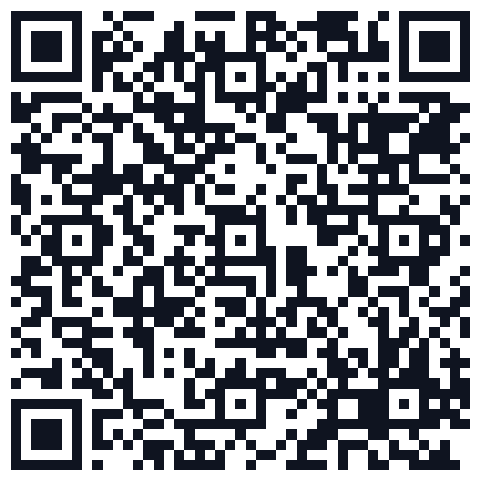
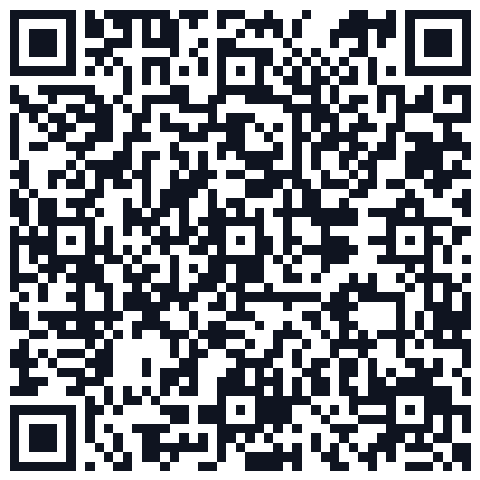
Corrige QR Code que abria o WhatsApp sem a mensagem pronta
O link wa.me e reconhecido como app link direto em varios celulares,
e nesse caminho o parametro de texto era descartado antes de chegar
no WhatsApp. Troca para api.whatsapp.com/send, que preserva a
mensagem de forma confiavel.

diff --git a/src/components/portfolio/ChaptersC.tsx b/src/components/portfolio/ChaptersC.tsx
@@ -352,12 +352,15 @@ const contactIcons = {
   Telefone: Phone,
 } as const;
 
-/** Mensagem pré-preenchida para quem inicia a conversa pelo QR Code do fechamento. */
+/**
+ * Mensagem pré-preenchida para quem inicia a conversa pelo QR Code do fechamento.
+ * Usa api.whatsapp.com (não wa.me): em vários aparelhos, o wa.me é aberto como
+ * app link direto pelo sistema e o parâmetro de texto acaba sendo descartado.
+ */
 const qrWhatsappMessage = encodeURIComponent("Olá Huiatã! Vi sua apresentação e quero conversar.");
 
 export function ContactChapter() {
-  const whatsappLink = contactLinks.find((link) => link.label === "WhatsApp");
-  const qrWhatsappUrl = whatsappLink?.url ? `${whatsappLink.url}?text=${qrWhatsappMessage}` : undefined;
+  const qrWhatsappUrl = `https://api.whatsapp.com/send?phone=55${profile.phone.replace(/\D/g, "")}&text=${qrWhatsappMessage}`;
 
   return (
     <SectionShell id="contato" index="16" eyebrow="Contato" className="bg-tech-grid">
@@ -408,26 +411,24 @@ export function ContactChapter() {
             </div>
           </Reveal>
         </div>
-        {qrWhatsappUrl ? (
-          <Reveal delay={400}>
-            <a
-              href={qrWhatsappUrl}
-              target="_blank"
-              rel="noreferrer"
-              className="glow-brand mx-auto flex w-fit flex-col items-center gap-3 rounded-3xl bg-white p-5 transition-transform hover:scale-[1.02] md:p-6"
-              aria-label="Escanear QR Code para iniciar uma conversa no WhatsApp (abre em nova aba)"
-            >
-              <img
-                src={qrWhatsapp}
-                alt="QR Code que leva direto para uma conversa no WhatsApp com Huiatã Ribeiro"
-                className="size-28 md:size-36"
-              />
-              <p className="text-center text-sm font-semibold text-[#0F1420]">
-                Aponte a câmera e fale comigo agora
-              </p>
-            </a>
-          </Reveal>
-        ) : null}
+        <Reveal delay={400}>
+          <a
+            href={qrWhatsappUrl}
+            target="_blank"
+            rel="noreferrer"
+            className="glow-brand mx-auto flex w-fit flex-col items-center gap-3 rounded-3xl bg-white p-5 transition-transform hover:scale-[1.02] md:p-6"
+            aria-label="Escanear QR Code para iniciar uma conversa no WhatsApp (abre em nova aba)"
+          >
+            <img
+              src={qrWhatsapp}
+              alt="QR Code que leva direto para uma conversa no WhatsApp com Huiatã Ribeiro"
+              className="size-28 md:size-36"
+            />
+            <p className="text-center text-sm font-semibold text-[#0F1420]">
+              Aponte a câmera e fale comigo agora
+            </p>
+          </a>
+        </Reveal>
       </div>
     </SectionShell>
   );
